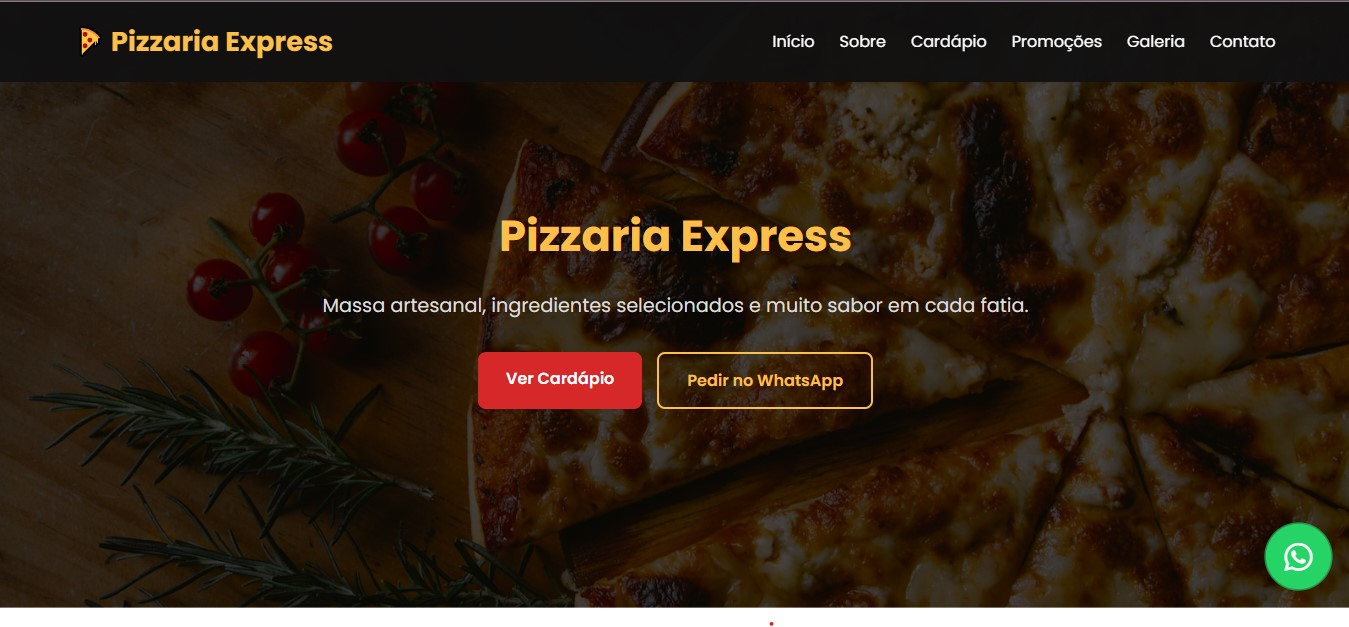
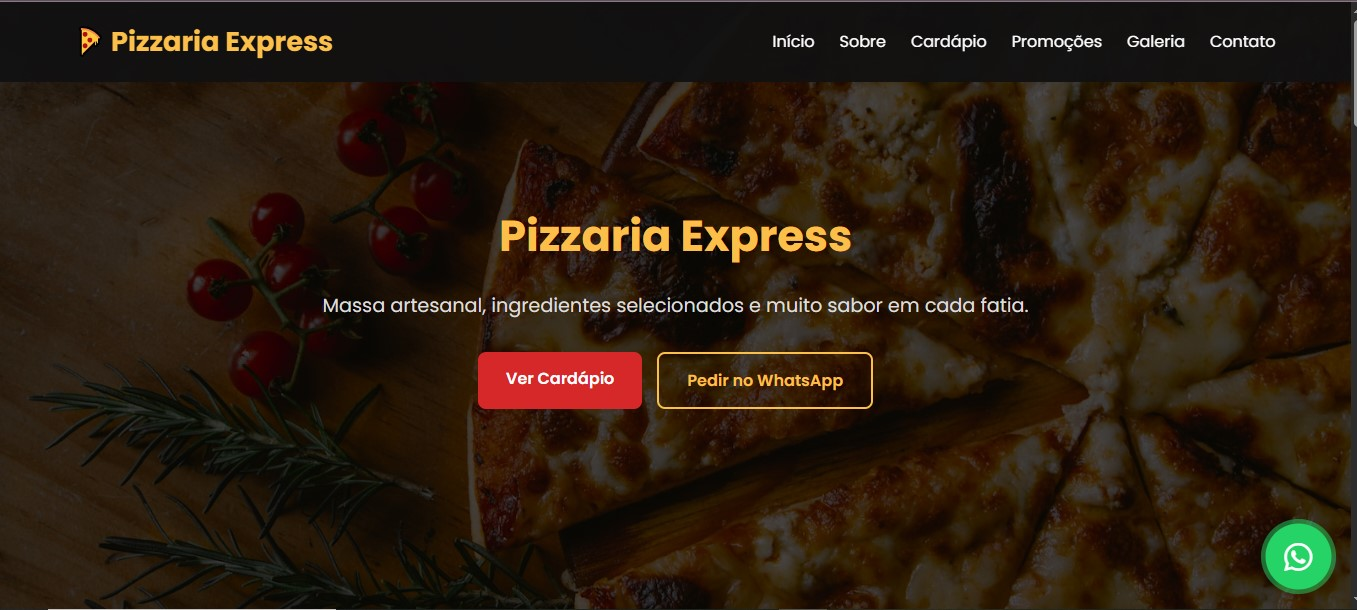
update

diff --git a/index.html b/index.html
@@ -40,7 +40,7 @@
                 🚀 Sites Profissionais
             </span>
 
-            <h1>Seu negócio merece uma presença profissional na internet</h1>
+            <h1>Seu negócio merece um site profissional que atraia mais clientes.</h1>
 
             <p>
                 Criamos sites modernos, rápidos e responsivos para
@@ -65,126 +65,125 @@
 
 </section>
 
-<section id="servicos">
+
 
     <section id="modelos">
 
 
-<div class="container">
+        <div class="container">
 
-    <h2>Portfólio</h2>
+            <h2>Portfólio</h2>
 
-    <div class="grid">
+            <div class="grid">
 
-        <div class="card portfolio-card">
+                <div class="card portfolio-card">
 
-            <img src="images/barber-studio.jpg" alt="Barber Studio">
+                    <img src="images/barber-studio.jpg" alt="Barber Studio">
 
-            <h3>💈 Barber Studio</h3>
+                    <h3>💈 Barber Studio</h3>
 
-            <p>
-                Site moderno para barbearias com
-                serviços, galeria e contato.
-            </p>
+                    <p>
+                        Site moderno para barbearias com
+                        serviços, galeria e contato.
+                    </p>
 
-            <a href="https://tiger-tech-br.github.io/barber-studio/" class="btn">
-                Ver Site
-            </a>
+                    <a href="https://tiger-tech-br.github.io/barber-studio/" class="btn" target="_blank">
+                        Ver Site
+                    </a>
+
+                </div>
+
+                <div class="card portfolio-card">
+
+                    <img src="images/pet-care.jpg" alt="Pet Care">
+
+                    <h3>🐾 Pet Care</h3>
+
+                    <p>
+                        Site para banho e tosa com foco
+                        em atendimento e agendamentos.
+                    </p>
+
+                    <a href="https://tiger-tech-br.github.io/pet-care/" class="btn" target="_blank">
+                        Ver Site
+                    </a>
+
+                </div>
+
+                <div class="card portfolio-card">
+
+                    <img src="images/pizzaria-express.jpg" alt="Pizzaria Express">
+
+                    <h3>🍕 Pizzaria Express</h3>
+
+                    <p>
+                        Landing page para pizzarias com
+                        cardápio e pedidos online.
+                    </p>
+
+                    <a href="https://tiger-tech-br.github.io/pizzaria-express/" class="btn" target="_blank">
+                        Ver Site
+                    </a>
+
+                </div>
+
+                <div class="card portfolio-card">
+
+                    <img src="images/sweet-cake.jpg" alt="Sweet Cake">
+
+                    <h3>🍰 Sweet Cake</h3>
+
+                    <p>
+                        Site elegante para confeitaria
+                        com catálogo de produtos.
+                    </p>
+
+                    <a href="https://tiger-tech-br.github.io/sweet-cakes/" class="btn" target="_blank">
+                        Ver Site
+                    </a>
+
+                </div>
+
+                <div class="card portfolio-card">
+
+                    <img src="images/personal-trainer.jpg" alt="Personal Trainer">
+
+                    <h3>🏋️ Personal Trainer</h3>
+
+                    <p>
+                        Página profissional para personal
+                        trainer e captação de clientes.
+                    </p>
+
+                    <a href="https://tiger-tech-br.github.io/personal-trainer/" class="btn" target="_blank">
+                        Ver Site
+                    </a>
+
+                </div>
+
+                <div class="card portfolio-card">
+
+                    <img src="images/auto-center.jpg" alt="Auto Center">
+
+                    <h3>🚗 Auto Center</h3>
+
+                    <p>
+                        Site para oficina mecânica com
+                        serviços e orçamento online.
+                    </p>
+
+                    <a href="https://tiger-tech-br.github.io/auto-center/" class="btn" target="_blank">
+                        Ver Site
+                    </a>
+
+                </div>
+
+            </div>
 
         </div>
-
-        <div class="card portfolio-card">
-
-            <img src="images/pet-care.jpg" alt="Pet Care">
-
-            <h3>🐾 Pet Care</h3>
-
-            <p>
-                Site para banho e tosa com foco
-                em atendimento e agendamentos.
-            </p>
-
-            <a href="https://tiger-tech-br.github.io/pet-care/" class="btn">
-                Ver Site
-            </a>
-
-        </div>
-
-        <div class="card portfolio-card">
-
-            <img src="images/pizzaria-express.jpg" alt="Pizzaria Express">
-
-            <h3>🍕 Pizzaria Express</h3>
-
-            <p>
-                Landing page para pizzarias com
-                cardápio e pedidos online.
-            </p>
-
-            <a href="https://tiger-tech-br.github.io/pizzaria-express/" class="btn">
-                Ver Site
-            </a>
-
-        </div>
-
-        <div class="card portfolio-card">
-
-            <img src="images/sweet-cake.jpg" alt="Sweet Cake">
-
-            <h3>🍰 Sweet Cake</h3>
-
-            <p>
-                Site elegante para confeitaria
-                com catálogo de produtos.
-            </p>
-
-            <a href="https://tiger-tech-br.github.io/sweet-cakes/" class="btn">
-                Ver Site
-            </a>
-
-        </div>
-
-        <div class="card portfolio-card">
-
-            <img src="images/personal-trainer.jpg" alt="Personal Trainer">
-
-            <h3>🏋️ Personal Trainer</h3>
-
-            <p>
-                Página profissional para personal
-                trainer e captação de clientes.
-            </p>
-
-            <a href="https://tiger-tech-br.github.io/personal-trainer/" class="btn">
-                Ver Site
-            </a>
-
-        </div>
-
-        <div class="card portfolio-card">
-
-            <img src="images/auto-center.jpg" alt="Auto Center">
-
-            <h3>🚗 Auto Center</h3>
-
-            <p>
-                Site para oficina mecânica com
-                serviços e orçamento online.
-            </p>
-
-            <a href="https://tiger-tech-br.github.io/auto-center/" class="btn">
-                Ver Site
-            </a>
-
-        </div>
-
-    </div>
-
-</div>
 
 </section>
 
-</section>
 
 <section class="benefits">
 
@@ -211,9 +210,9 @@
 
         <h2>Contato</h2>
 
-        <p>Instagram: @ofctigertech</p>
-
-        <p>Email: [email redacted]</p>
+        <p>📸 Instagram: @ofctigertech</p>
+        <p>📧 [email redacted]</p>
+        <p>📍 Santo André - SP</p>
 
     </div>
 

diff --git a/style.css b/style.css
@@ -151,7 +151,7 @@ margin-bottom:20px;
 
 .hero h1{
     font-size:2.6rem;
-    line-height:1.1;
+    line-height:1.4;
     margin-bottom:20px;
     font-weight:800;
 }
@@ -235,12 +235,35 @@ color:#f4b400;
 margin-bottom:12px;
 }
 
+
+.portfolio-card{
+    overflow:hidden;
+    text-align:center;
+}
+
 .portfolio-card img{
-width:100%;
-height:180px;
-object-fit:cover;
-border-radius:12px;
-margin-bottom:15px;
+    width:100%;
+    height:220px;
+    object-fit:cover;
+    border-radius:12px;
+    margin-bottom:20px;
+    transition:.4s;
+}
+
+.portfolio-card:hover img{
+    transform:scale(1.05);
+    cursor: pointer;
+}
+
+.portfolio-card p{
+    color:#bbb;
+    margin-bottom:20px;
+    min-height:70px;
+}
+
+.portfolio-card .btn{
+    width:100%;
+    text-align:center;
 }
 
 .contact{
@@ -280,7 +303,8 @@ color:#999;
 }
 
 .hero h1{
-    font-size:1.8rem;
+    font-size:1.6rem;
+    line-height: 1.4;
 }
 
 .hero p{